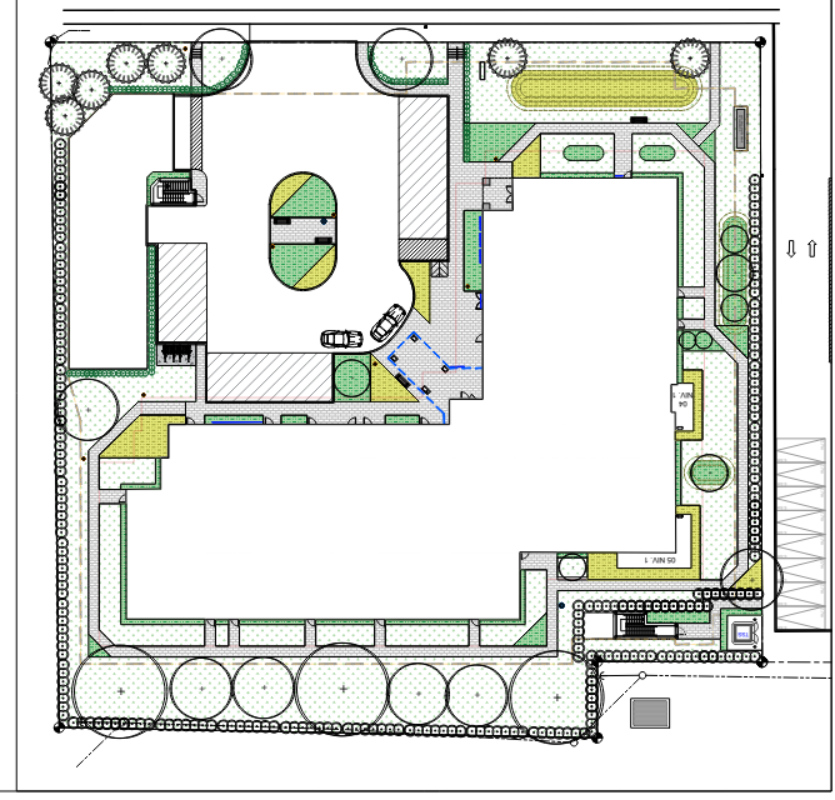
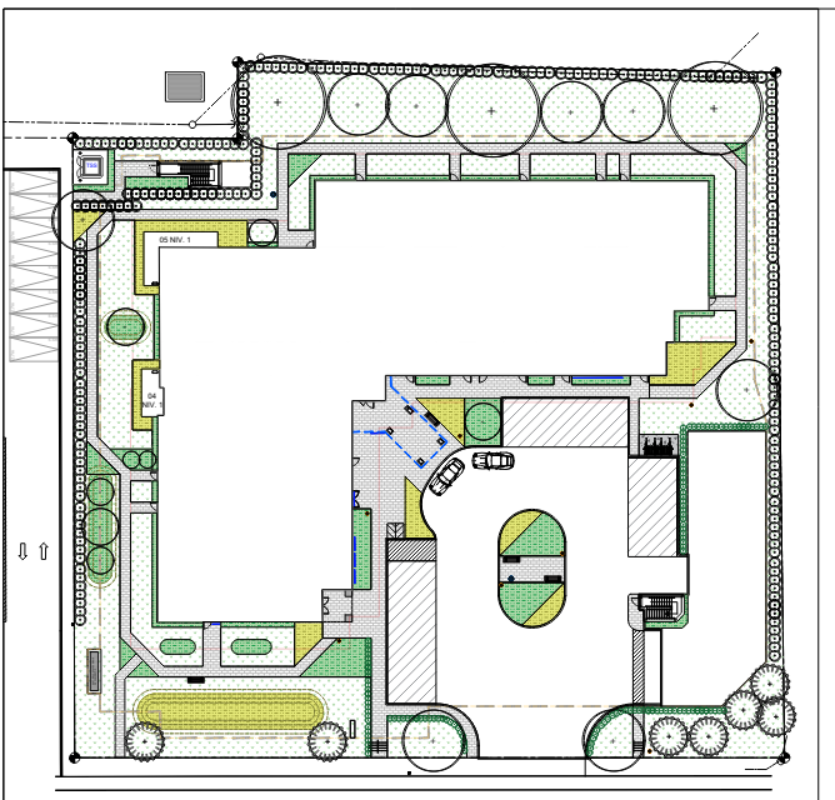
C3: projects as the index screen, breadcrumb back to it, per-sheet overlay state

diff --git a/public/prototypes/wireframe-c3.html b/public/prototypes/wireframe-c3.html
@@ -97,7 +97,10 @@ body{background:var(--page);color:var(--ink);font-size:13px;line-height:1.45;-we
 .rail.wide .row .hi{white-space:nowrap;overflow:hidden;text-overflow:ellipsis}
 
 /* breadcrumb, screen menu and grouped tabs live in the tab strip */
-.tabs .crumb{font-size:12.5px;color:var(--ink-3)}
+.tabs .crumb{font-size:12.5px;color:var(--ink-3);display:inline-flex;align-items:center;gap:6px;cursor:pointer}
+.tabs .crumb .lu{width:13px;height:13px}
+.tabs .crumb:hover{color:var(--ink)}
+.tabs .crumb.on{cursor:default}
 .tabs .crumb.on{color:var(--ink);font-weight:500}
 .tabs .grp{font-size:9.5px;letter-spacing:.09em;text-transform:uppercase;color:var(--ink-3);
   padding:0 6px 0 2px}
@@ -129,6 +132,8 @@ body{background:var(--page);color:var(--ink);font-size:13px;line-height:1.45;-we
 .btnw{height:26px;border:1px solid var(--line);border-radius:5px;background:var(--fill-2);
   display:inline-flex;align-items:center;gap:6px;padding:0 9px;font-size:12px;color:var(--ink-2)}
 .btnw.solid{background:var(--bar);border-color:var(--line);color:var(--ink)}
+.pcard{cursor:pointer}
+.pcard:hover{border-color:var(--line);background:var(--fill-2)}
 .tile{border:1px solid var(--line-2);border-radius:var(--r);padding:10px;display:flex;
   flex-direction:column;gap:6px;min-width:0}
 .listrow{display:flex;align-items:center;gap:8px;padding:7px 8px;border-radius:5px}
@@ -192,6 +197,21 @@ body{background:var(--page);color:var(--ink);font-size:13px;line-height:1.45;-we
 [data-fi="high"] .plan[data-img="plan"]{background-image:url(assets/plan-etage.jpg)}
 [data-fi="high"] .plan[data-img="model"]{background-image:url(assets/skp-facade.jpg)}
 [data-fi="high"] .plan[data-img="massing"]{background-image:url(assets/skp-ensemble.jpg)}
+
+/* The consultants' sheets sit over the floor plan in one shared coordinate
+   space: the plan box takes the drawing's own aspect and is drawn edge to
+   edge, so a percentage means the same thing on every layer. */
+.plan.align{aspect-ratio:1280 / 1160;height:auto;flex:0 0 auto;overflow:hidden}
+[data-fi="high"] .plan.align[data-img]{background-size:100% 100%;background-position:0 0}
+.plan .lay{position:absolute;display:none;background-repeat:no-repeat;
+  background-size:100% 100%;pointer-events:none;z-index:1}
+[data-fi="high"] .plan[data-img] .lay{display:block}
+.plan .lay[data-lay="arp"]{background-image:url(assets/arp-site.png)}
+/* The landscaping sheet is drawn the other way round from the surveyor's:
+   the 8,26 m drive island reads (.375,.313) on one and (.354,.276) on the
+   other once both are measured against their property lines. The file stays
+   as extracted; the half turn happens here. */
+.plan .lay[data-lay="pay"]{background-image:url(assets/paysage.png);transform:rotate(180deg)}
 [data-fi="high"] .btnw.solid{background:var(--hi);color:#fff;border-color:var(--hi)}
 [data-fi="high"] .listrow.on{background:#eef1e0}
 [data-fi="high"] .listrow .dot{background:#8ba00f}
@@ -258,6 +278,8 @@ const V = {
   content: { fidelity: "inherit", layout: "Two panes" },
   inspector: { fidelity: "inherit", layout: "Right panel" },
   footer: { fidelity: "inherit", layout: "Impact strip" },
+  lay: { arp: { on: true, opacity: 55, scale: 100, x: 0, y: 0 },
+    pay: { on: false, opacity: 55, scale: 100, x: 0, y: 0 } },
 };
 
 const icon = (n) => `<svg class="lu"><use href="#lu-${n}"></use></svg>`;
@@ -286,7 +308,7 @@ const toPascal = (n) => n.split("-").map((p) => p[0].toUpperCase() + p.slice(1))
 /* --------------------------------------------------------------- screens */
 
 const SCREENS = {
-  Home: { icon: "home", regions: ["header", "content"], steps: {}, home: true },
+  Projects: { icon: "folder", regions: ["header", "content"], steps: {}, home: true, index: true },
   Overview: {
     icon: "layout-grid",
     regions: ["header", "content", "inspector"],
@@ -331,7 +353,7 @@ function crop(box, pad = 0.45, axis = "width") {
     + `background-position:${(px / (1 - fw) * 100).toFixed(1)}% ${(py / (1 - fh) * 100).toFixed(1)}%`;
 }
 
-const NAV = [["home", "Home"], ["layout-grid", "Overview"], ["layers", "Units"], ["table", "Quantities"],
+const NAV = [["layout-grid", "Overview"], ["layers", "Units"], ["table", "Quantities"],
   ["scale", "Rules"], ["git-compare", "Coordination"], ["calendar-check", "Tracking"], ["file", "Files"]];
 
 /* The cross-screen journey the prototype is built around. Everything else
@@ -403,7 +425,7 @@ const pstate = (p) => `<span class="state" data-open="${p[4]}"><span class="d"><
 
 /* One 16:9 thumbnail per project, whatever the building. The ratio is set on
    the frame; the drawing is cropped by it and never stretched to fit. */
-const pcard = (p) => `<div class="tile pcard">
+const pcard = (p) => `<div class="tile pcard" data-screen="Overview" title="Open ${p[0]}">
   <div class="plan ghost thumb" data-img="plan">${icon("image")}<span class="lv hi">level 5</span></div>
   <div><span class="lo bar" style="width:55%"></span><span class="hi" style="font-weight:600;font-size:13px">${p[0]}</span></div>
   <div><span class="lo bar lt" style="width:72%"></span><span class="hi" style="font-size:11.5px;color:var(--ink-2)">${p[1]}</span></div>
@@ -462,6 +484,7 @@ const HOMES = {
 };
 
 function navHTML() {
+  if (SCREENS[V.screen].index) return "";
   const mode = V.nav.layout;
   if (mode === "Top bar only" || mode === "Tabs only, no rail") return "";
   const sections = mode === "Wide rail with sections";
@@ -475,7 +498,7 @@ function navHTML() {
     const head = sections && SECTIONS[i] ? `<div class="sct hi">${SECTIONS[i]}</div>` : "";
     if (wide) return `${head}<div class="row ${on}" data-screen="${name}" title="${name}">${g}<span class="lo bar" style="width:70%"></span>${text}</div>`;
     if (stack) return `<div class="stk ${on}" data-screen="${name}" title="${name}">${g}<span class="lo bar" style="width:70%;height:6px"></span>${text}</div>`;
-    return `<div class="ic ${on}" data-screen="${name}" title="${name}">${g || `<span class="code hi">${SHORT(name)}</span>`}${g && name !== "Home" ? `<span class="cap hi">${navLabel(name, i)}</span>` : ""}</div>`;
+    return `<div class="ic ${on}" data-screen="${name}" title="${name}">${g || `<span class="code hi">${SHORT(name)}</span>`}${g ? `<span class="cap hi">${navLabel(name, i)}</span>` : ""}</div>`;
   }).join("");
   const cls = wide ? "wide" : stack ? "stack" : "";
   return `<nav class="rail rg ${solo("nav")} ${cls}" data-rg="nav" data-fi="${fiOf("nav")}"
@@ -485,7 +508,7 @@ function navHTML() {
 /* The rail and the tab strip never carry the same destinations. When the
    rail lists the screens, the strip drops to the current screen's own views. */
 const CONTEXT = {
-  Home: ["Ongoing", "Archived"],
+  Projects: ["Ongoing", "Archived"],
   Overview: ["What changed", "Totals", "Blocking"],
   Units: ["Level 5", "Level 4", "Level 3", "All levels"],
   Quantities: ["Units", "Areas", "Windows", "Materials"],
@@ -500,7 +523,7 @@ function tabsHTML() {
   if (mode === "Rail only, no tabs") return "";
   const top = mode === "Top bar only";
   const ic = tabIcons();
-  const names = Object.keys(SCREENS);
+  const names = Object.keys(SCREENS).filter((n) => !SCREENS[n].index);
   /* Icons off and labels away would leave an empty strip, so the short code
      stands in: a tab target never renders without something to read. */
   const bare = !ic && (V.nav.labels === "Hidden" || V.nav.labels === "Hover only");
@@ -510,20 +533,25 @@ function tabsHTML() {
 
   let items;
   const views = CONTEXT[V.screen] || ["Overview"];
-  if (mode === "Rail + view menu") {
+  /* The index is reached from the words "All projects". They sit in the strip
+     on every screen; on the index itself they are the only thing in it. */
+  const back = `<span class="crumb hi" data-screen="Projects" title="All projects">${icon("folder")}All projects</span>`;
+  if (SCREENS[V.screen].index) {
+    items = `<span class="crumb on hi">${icon("folder")}All projects</span><span class="sp"></span>`;
+  } else if (mode === "Rail + view menu") {
     items = `<span class="btnw solid" data-menu><span class="hi">${views[0]}</span>${icon("chevron-down")}</span>
       <span class="sp"></span>
       <span class="chip hi">1 of ${views.length}</span>`;
   } else if (mode === "Rail + breadcrumb") {
-    items = `<span class="crumb hi">Le Hauterive III</span>${icon("chevron-right")}
-      <span class="crumb on hi">${views[0]}</span>
+    items = `${back}${icon("chevron-right")}
+      <span class="crumb on hi">Alder Court</span>
       <span class="sp"></span>`;
   } else if (top || mode === "Tabs only, no rail") {
-    items = `${names.map(tab).join("")}<span class="sp"></span>`;
+    items = `${back}<span class="div"></span>${names.map(tab).join("")}<span class="sp"></span>`;
   } else {
     /* A rail is on screen, so the strip shows this screen's views instead
        of repeating the screen list. */
-    items = `${views.map((t, i) => `<button aria-current="${i === 0}" title="${t}">
+    items = `${back}<span class="div"></span>${views.map((t, i) => `<button aria-current="${i === 0}" title="${t}">
         <span class="lo bar" style="width:46px"></span><span class="hi">${t}</span></button>`).join("")}
       <span class="sp"></span>`;
   }
@@ -537,7 +565,7 @@ function tabsHTML() {
 
 function headerHTML() {
   const step = V.journey ? SCREENS[V.screen].steps.header : null;
-  const title = { Home: ["Projects", "5 ongoing · 1 archived"],
+  const title = { Projects: ["Projects", "5 ongoing · 1 archived"],
     Overview: ["Le Hauterive III", "8 floors · 98 units · 2 sources connected"],
     Units: ["Typical floor — level 5", "14 units · 6 differences open"],
     Quantities: ["Quantities", "counted from the drawings, nothing typed"],
@@ -733,9 +761,11 @@ function render() {
   const hasList = def.regions.includes("list") && V.list.layout !== "Hidden" && V.list.layout !== "Filter bar only";
   const hasInsp = def.regions.includes("inspector") && V.inspector.layout === "Right panel";
   const cols = [hasList ? "260px" : null, "1fr", hasInsp ? "340px" : null].filter(Boolean).join(" ");
-  const navMode = { "Top bar only": "top", "Tabs only, no rail": "top",
-    "Wide rail with labels": "wide", "Wide rail with sections": "wide",
-    "Rail with labels under icons": "stack" }[V.nav.layout] || "rail";
+  /* No rail until a project is open: the rail is the proof that one is. */
+  const navMode = def.index ? "top"
+    : { "Top bar only": "top", "Tabs only, no rail": "top",
+        "Wide rail with labels": "wide", "Wide rail with sections": "wide",
+        "Rail with labels under icons": "stack" }[V.nav.layout] || "rail";
 
   document.getElementById("frame").innerHTML = `
     <div class="frame" data-nav="${navMode}" data-labels="${V.labels}" data-journey="${V.journey}"
